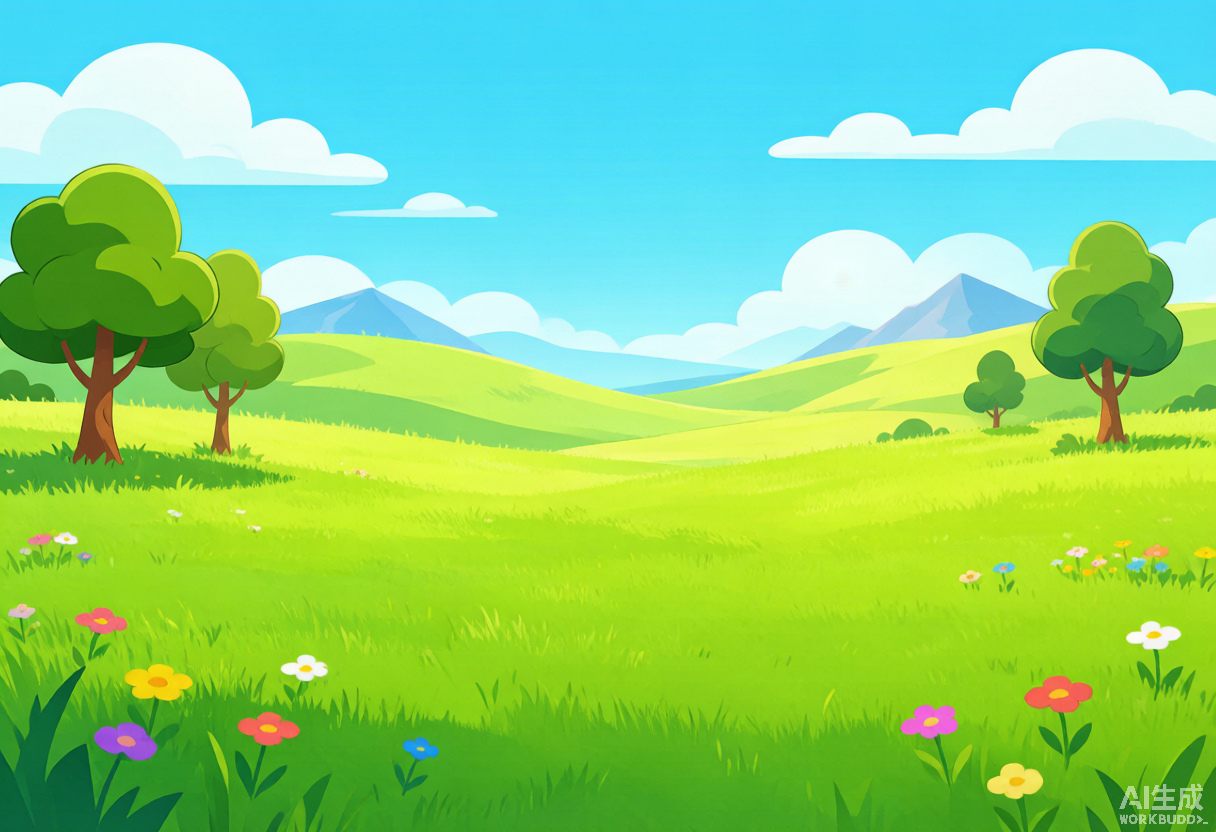
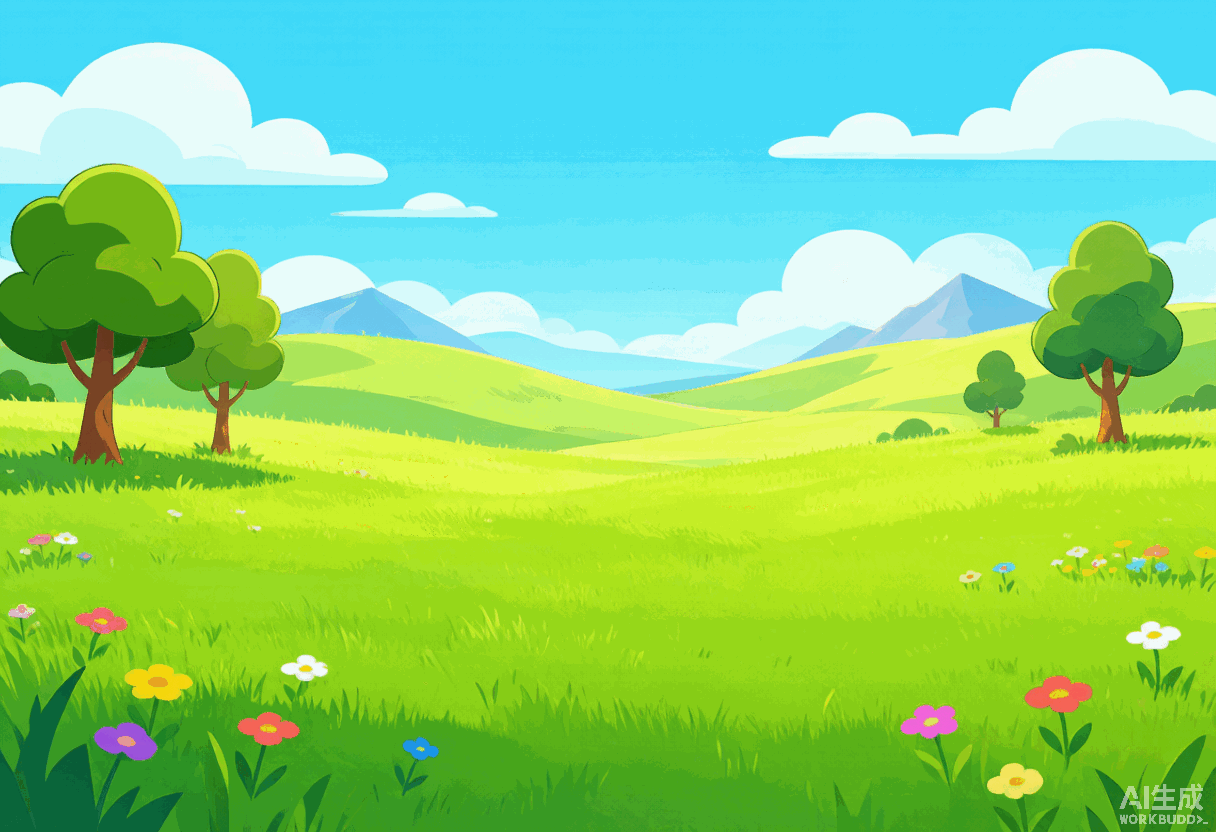
v15.18: 修复妙脆角猫子弹/火箭发射位置、全屏Esc退出、触屏连发双发问题；同步压缩素材

diff --git a/js/main.js b/js/main.js
@@ -1307,11 +1307,23 @@ function toggleFullscreen(){
   }
 }
 window.toggleFullscreen = toggleFullscreen;
-// 浏览器默认按ESC会退出全屏：这里检测到被退出时，若仍要求全屏（设置里开的）就立即重新进入——只有设置按钮能退出全屏
+// V15.18 全屏+Esc修复：关卡内按Esc应呼出暂停/退出菜单，不再被"强制回全屏"困住
+// - 主菜单/设置界面：保持全屏（只有设置按钮能退出全屏）
+// - 关卡内：允许浏览器退出全屏，并自动打开暂停菜单，避免死循环无法退出
 if(typeof document.addEventListener==='function'){
   document.addEventListener('fullscreenchange', ()=>{
-    if(window.forceFullscreen && !document.fullscreenElement && document.documentElement && document.documentElement.requestFullscreen){
-      document.documentElement.requestFullscreen().catch(()=>{});
+    if(window.forceFullscreen && !document.fullscreenElement){
+      const inLevel = !!window.gameStarted; // 进入关卡（含暂停/结算）后视为关卡内
+      if(inLevel){
+        // 关卡内：Esc已被浏览器用于退出全屏 → 不再强制回全屏，改呼出暂停菜单
+        window.forceFullscreen = false;
+        if(!window.gameEnded && !window.playerDead && typeof togglePause==='function'){
+          try{ togglePause(); }catch(e){}
+        }
+      } else if(document.documentElement && document.documentElement.requestFullscreen){
+        // 主菜单/设置界面：保持全屏（只有设置按钮能退出全屏）
+        document.documentElement.requestFullscreen().catch(()=>{});
+      }
     }
   });
 }
@@ -5038,21 +5050,25 @@ function useQRocket(){
     qCooldownLeft=qc;
     window.qCooldownLeft=qc;
     const face=window.miaoCatFace||1;
-    qRockets.push({x:enemy.x+(face>0?50:-20),y:playerY-10,dir:face,dead:false,explode:false});
+    qRockets.push({ x: getMuzzleX(face, 110), y: getMuzzleY(), dir: face, dead:false, explode:false });
     setTimeout(()=>{qReady=true;},qc);
 }
 
 function updateQRockets(){
+ const gameEl = document.getElementById('game');
+ const gr = gameEl ? gameEl.getBoundingClientRect() : { left:0, top:0, height: window.innerHeight };
  qRockets.forEach(r=>{
    r.x += r.dir*3.6;
 
    // V1.5.2 Q火箭碰撞修复：
    // 火箭本体使用小碰撞箱，不再使用大范围X轴判断
+   const rScreenLeft = gr.left + r.x;
+   const rScreenTop = gr.top + gr.height - r.y - 80;
    const rocketHitbox = {
-      left: r.x + 18,
-      right: r.x + 55,
-      top: (window.innerHeight-180+r.y) + 18,
-      bottom: (window.innerHeight-180+r.y) + 55
+      left: rScreenLeft + 18,
+      right: rScreenLeft + 55,
+      top: rScreenTop + 18,
+      bottom: rScreenTop + 55
    };
 
    // 命中检测：遍历所有存活敌人（Boss也能被打到），取第一个被火箭碰到/爆炸范围内的
@@ -5077,7 +5093,7 @@ function updateQRockets(){
       // 爆炸伤害范围单独处理（150px）
       const explosionRange = 260; // 大Boss也能被炸到
       const frogCenterX = hitEnemy.img.getBoundingClientRect().left + hitEnemy.img.getBoundingClientRect().width/2;
-      const rocketCenterX = r.x + 35;
+      const rocketCenterX = rScreenLeft + 35;
 
       if(Math.abs(frogCenterX - rocketCenterX) <= explosionRange){
           const qDmg = doCrit((Q_DAMAGE + (window.playerAttackBuff||0)) * (1 + 0.05*((inventory.skillLevels&&(inventory.skillLevels.skillQ||inventory.skillLevels.skill))||0)));
@@ -5108,9 +5124,19 @@ function updateQRockets(){
 
 function drawQRockets(){
  document.querySelectorAll('.qRocket').forEach(e=>e.remove());
- qRockets.forEach(r=>{let img=document.createElement('img');img.className='qRocket';img.src=Q_ROCKET_IMAGE;img.style.position='fixed';img.style.left=r.x+'px';img.style.top=(window.innerHeight-180+r.y)+'px';img.style.width='110px';img.style.height='80px';img.style.transform='scaleX('+(r.dir>0?1:-1)+')';document.body.appendChild(img);});
+ const gameEl = document.getElementById('game');
+ qRockets.forEach(r=>{let img=document.createElement('img');img.className='qRocket';img.src=Q_ROCKET_IMAGE;img.style.position='absolute';img.style.left=r.x+'px';img.style.bottom=r.y+'px';img.style.width='110px';img.style.height='80px';img.style.transform='scaleX('+(r.dir>0?1:-1)+')';(gameEl||document.body).appendChild(img);});
 }
 
+// V15.18 子弹/火箭发射点：与玩家同一坐标系（#game 内绝对定位），从猫的身体旁边打出
+// 玩家渲染: left=enemy.x, bottom=100-playerY → 子弹/火箭也用相同基准，杜绝任何坐标偏移
+function getMuzzleX(face, w){
+  const inset = Math.min(24, Math.round(w*0.3));
+  return enemy.x + (face > 0 ? (100 - inset) : -(w - inset));
+}
+function getMuzzleY(){
+  return (100 - playerY) + 20;
+}
 function shootBullet(){
     if(playerDead || (frog && frog.dead) || gameEnded || !canShoot) return; // frog 可能为空（切换/过渡时），防空引用
 
@@ -5126,12 +5152,7 @@ function shootBullet(){
 
     window.miaoCatFace = playerFace;
 
-    catBullets.push({
-        x: enemy.x + (playerFace === -1 ? -20 : 50),
-        y: playerY - 10,
-        dir: playerFace,
-        dead:false
-    });
+    catBullets.push({ x: getMuzzleX(playerFace, 72), y: getMuzzleY(), dir: playerFace, dead:false });
 
     setTimeout(()=>{
         canShoot=true;
@@ -5147,7 +5168,9 @@ window.addEventListener("mousedown",(e)=>{
       const tag = t && t.tagName ? t.tagName.toUpperCase() : '';
       const onForm = tag==='INPUT' || tag==='TEXTAREA' || tag==='SELECT' || tag==='BUTTON' || tag==='LABEL' ||
         !!(t && t.closest && t.closest('input,textarea,select,button,label'));
-      if(!onForm){ e.preventDefault(); } // 防止点出图片选中/拖到书签
+      // V15.18 点击按钮/触控键/输入框等控件时不发射普攻（防止触屏合成mousedown导致双发/误发）
+      if(onForm){ return; }
+      e.preventDefault(); // 防止点出图片选中/拖到书签
     }
     if(window.gamePaused) return;
     if(e.button===0 && window.gameStarted){
@@ -5275,16 +5298,20 @@ setInterval(()=>{
 function updateBullets(){
     if(!frogImg) return;
     updateQRockets();
+    const gameEl = document.getElementById('game');
+    const gr = gameEl ? gameEl.getBoundingClientRect() : { left:0, top:0, height: window.innerHeight };
     catBullets.forEach(b=>{
         b.x += b.dir * BULLET_SPEED;
 
         // V1.1.3: 子弹独立小范围碰撞箱，不受大贴图影响
         const frogRect = frogImg.getBoundingClientRect();
+        const bScreenLeft = gr.left + b.x;
+        const bScreenTop = gr.top + gr.height - b.y - 72;
         const hitbox = {
-            left: b.x + 12,
-            right: b.x + 44,
-            top: (window.innerHeight-180+b.y) + 12,
-            bottom: (window.innerHeight-180+b.y) + 44
+            left: bScreenLeft + 12,
+            right: bScreenLeft + 44,
+            top: bScreenTop + 12,
+            bottom: bScreenTop + 44
         };
         if(typeof window.tryBreakBreakables==='function'){ tryBreakBreakables(12 + (charLevel()-1), b.x, 55); }
         if(frog && !frog.dead &&
@@ -5303,18 +5330,19 @@ function updateBullets(){
 function drawBullets(){
     drawQRockets();
     document.querySelectorAll(".catBullet").forEach(e=>e.remove());
+    const gameEl = document.getElementById('game');
 
     catBullets.forEach(b=>{
         let img=document.createElement("img");
         img.className="catBullet";
         img.src=BULLET_IMAGE;
-        img.style.position="fixed";
+        img.style.position="absolute";
         img.style.left=b.x+"px";
-        img.style.top=(window.innerHeight-180+b.y)+"px";
+        img.style.bottom=b.y+"px";
         img.style.width="72px";
         img.style.transform = "scaleX(" + (b.dir>0?1:-1) + ")"; // 朝左发射时子弹图片也跟着朝左
         img.style.height="72px";
-        document.body.appendChild(img);
+        (gameEl||document.body).appendChild(img);
     });
 }
 

diff --git a/index.html b/index.html
@@ -11,9 +11,24 @@
 <link rel="manifest" href="manifest.webmanifest">
 <link rel="apple-touch-icon" href="assets/ui/icon-192.png">
 <link rel="icon" type="image/png" href="assets/ui/icon-192.png">
+<link rel="preload" as="image" href="assets/ui/bg_scene.png">
+<link rel="preload" as="image" href="assets/ui/bg_boss1.png">
+<link rel="preload" as="image" href="assets/players/miaocuijiao_cat/sprites/miaocat_idle.png">
+<link rel="preload" as="image" href="assets/players/daodungou/sprites/daodungou_idle.png">
 <link rel="stylesheet" href="css/style.css">
 </head>
 <body>
+<div id="loadingScreen"><div class="loadingBox">🐱 妙脆角猫与刀盾狗 🐶<div class="loadingBar"><div class="loadingFill"></div></div><div class="loadingText">正在加载，请稍候…</div></div></div>
+<script>
+(function(){
+  var ls=document.getElementById('loadingScreen');
+  var minShown=Date.now()+500;
+  function hide(){ if(ls && ls.parentNode){ ls.classList.add('hide'); setTimeout(function(){ ls.remove(); },450); } }
+  function done(){ if(Date.now()<minShown){ setTimeout(done, minShown-Date.now()); return; } hide(); }
+  if(document.readyState==='complete'){ done(); }
+  else { window.addEventListener('load', done); setTimeout(hide, 3500); }
+})();
+</script>
 
 <!-- V5.9 登录 -->
 <div id="login">

diff --git a/sw.js b/sw.js
@@ -1,9 +1,14 @@
 // 妙脆角猫与刀盾狗的奇妙探险 - Service Worker
 // 网络优先：永远优先拿最新版，离线时用缓存兜底（版本号更新后自动清理旧缓存）
-const CACHE = 'milkfrog-v15.16';
+const CACHE = 'milkfrog-v15.18';
 const CORE = ['./', './index.html', './manifest.webmanifest',
   './css/style.css',
-  './js/config.js','./js/enemy.js','./js/battle.js','./js/frogAI.js','./js/ui_v13.js','./js/R_RocketRain.js','./js/main.js','./js/mobile.js','./js/player/DaodungouDog.js'
+  './js/config.js','./js/enemy.js','./js/battle.js','./js/frogAI.js','./js/ui_v13.js','./js/R_RocketRain.js','./js/main.js','./js/mobile.js','./js/player/DaodungouDog.js',
+  './assets/ui/bg_scene.png','./assets/ui/bg_boss1.png',
+  './assets/players/miaocuijiao_cat/sprites/miaocat_idle.png',
+  './assets/players/daodungou/sprites/daodungou_idle.png',
+  './assets/audio/bgm/bgm.wav',
+  './assets/ui/icon-192.png','./assets/ui/icon-512.png'
 ];
 self.addEventListener('install', (e)=>{
   e.waitUntil(caches.open(CACHE).then(c=>c.addAll(CORE)).then(()=>self.skipWaiting()));

diff --git a/css/style.css b/css/style.css
@@ -1106,3 +1106,12 @@ img{ -webkit-user-drag:none; user-drag:none; }
   #l15Timer{font-size:24px;}
   .hud{min-width:150px;}
 }
+
+/* ===================== V15.17 加载界面 ===================== */
+#loadingScreen{position:fixed;inset:0;z-index:99999;background:linear-gradient(180deg,#2b3a55,#1b2434);display:flex;align-items:center;justify-content:center;color:#fff;font-family:Arial,sans-serif;transition:opacity .45s;}
+#loadingScreen.hide{opacity:0;pointer-events:none;}
+.loadingBox{text-align:center;font-size:26px;font-weight:bold;text-shadow:2px 2px 0 #000;}
+.loadingBar{width:280px;height:10px;background:#33415a;border-radius:6px;margin:20px auto 12px;overflow:hidden;}
+.loadingFill{width:100%;height:100%;background:linear-gradient(90deg,#ffd86b,#ff9d3c);animation:loadslide 1.1s ease-in-out infinite;}
+@keyframes loadslide{0%{transform:translateX(-100%)}100%{transform:translateX(100%)}}
+.loadingText{font-size:14px;color:#a9bcd8;}
